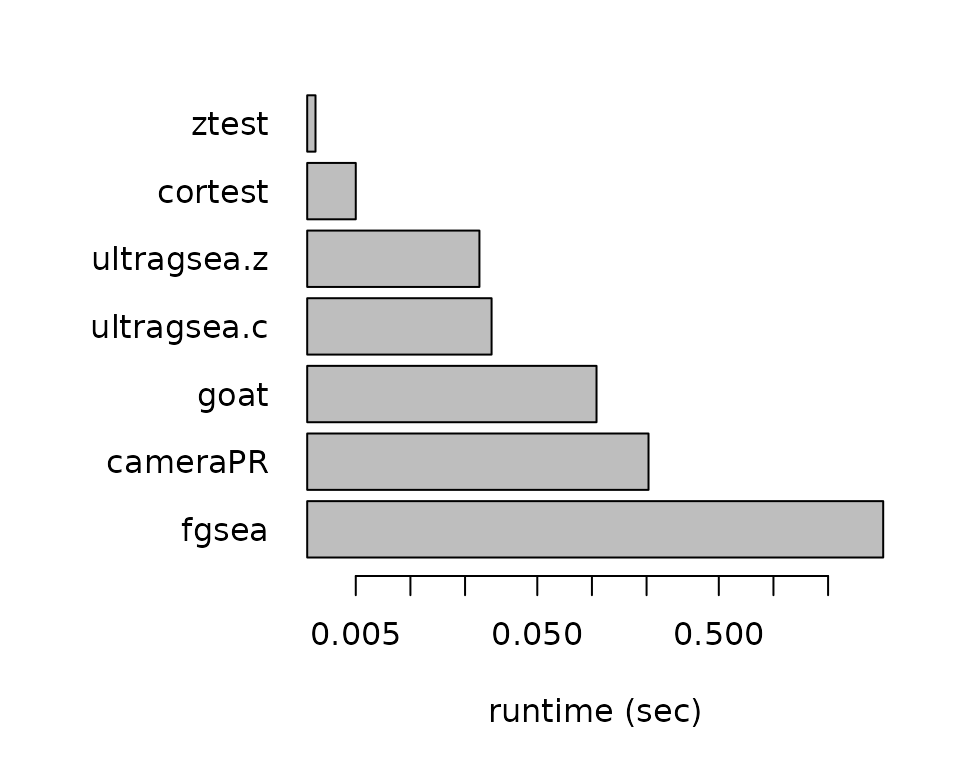
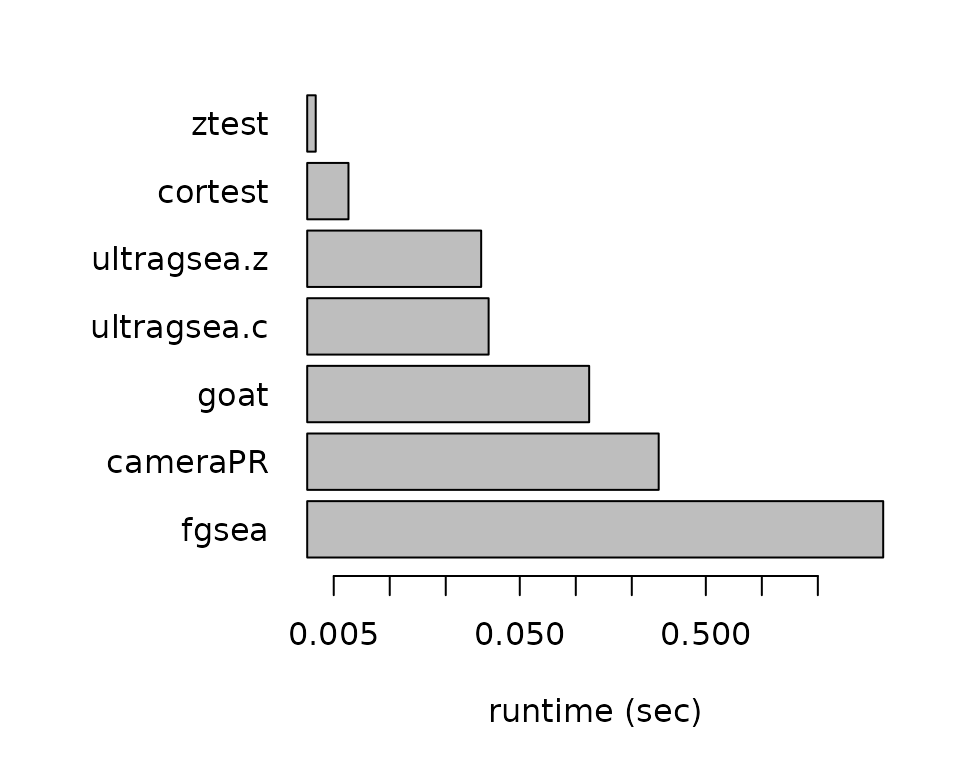
Deploying to gh-pages from @ bigomics/ultragsea@3f028133caed4172ec54459c7f4b8acf7c21ff14 🚀

diff --git a/articles/compare-methods.html b/articles/compare-methods.html
@@ -170,43 +170,43 @@ of each method.</p>
 <tbody>
 <tr class="odd">
 <td align="left">fgsea</td>
-<td align="right">4.024</td>
+<td align="right">4.491</td>
 <td align="right">1.3</td>
 <td align="right">42.6</td>
 </tr>
 <tr class="even">
 <td align="left">cameraPR</td>
-<td align="right">0.205</td>
+<td align="right">0.279</td>
 <td align="right">0.8</td>
 <td align="right">41.2</td>
 </tr>
 <tr class="odd">
 <td align="left">ultragsea.z</td>
-<td align="right">0.024</td>
+<td align="right">0.031</td>
 <td align="right">0.2</td>
 <td align="right">9.2</td>
 </tr>
 <tr class="even">
 <td align="left">ultragsea.c</td>
-<td align="right">0.028</td>
+<td align="right">0.034</td>
 <td align="right">0.9</td>
 <td align="right">12.7</td>
 </tr>
 <tr class="odd">
 <td align="left">cortest</td>
-<td align="right">0.005</td>
+<td align="right">0.006</td>
 <td align="right">0.0</td>
 <td align="right">4.2</td>
 </tr>
 <tr class="even">
 <td align="left">ztest</td>
-<td align="right">0.003</td>
+<td align="right">0.004</td>
 <td align="right">0.0</td>
 <td align="right">2.8</td>
 </tr>
 <tr class="odd">
 <td align="left">goat</td>
-<td align="right">0.106</td>
+<td align="right">0.118</td>
 <td align="right">4.5</td>
 <td align="right">23.8</td>
 </tr>
@@ -278,10 +278,10 @@ fgsea::fgsea()</p>
 <div class="sourceCode" id="cb8"><pre class="downlit sourceCode r">
 <code class="sourceCode R"><span><span class="fu"><a href="https://rdrr.io/r/base/system.time.html" class="external-link">system.time</a></span><span class="op">(</span><span class="va">res1</span> <span class="op">&lt;-</span> <span class="fu">fgsea</span><span class="fu">::</span><span class="fu"><a href="https://rdrr.io/pkg/fgsea/man/fgsea.html" class="external-link">fgsea</a></span><span class="op">(</span><span class="va">gmt</span>, <span class="va">fc</span><span class="op">)</span><span class="op">)</span></span>
 <span><span class="co">#&gt;    user  system elapsed </span></span>
-<span><span class="co">#&gt;   2.789   0.105   3.246</span></span>
+<span><span class="co">#&gt;   5.934   0.114   3.728</span></span>
 <span><span class="fu"><a href="https://rdrr.io/r/base/system.time.html" class="external-link">system.time</a></span><span class="op">(</span><span class="va">res2</span> <span class="op">&lt;-</span> <span class="fu">ultragsea</span><span class="fu">::</span><span class="fu"><a href="../reference/fgsea.html">fgsea</a></span><span class="op">(</span><span class="va">gmt</span>, <span class="va">fc</span><span class="op">)</span><span class="op">)</span></span>
 <span><span class="co">#&gt;    user  system elapsed </span></span>
-<span><span class="co">#&gt;   0.195   0.155   0.259</span></span></code></pre></div>
+<span><span class="co">#&gt;   0.169   0.133   0.239</span></span></code></pre></div>
 </div>
 </div>
   </main><aside class="col-md-3"><nav id="toc" aria-label="Table of contents"><h2>On this page</h2>

diff --git a/articles/compare-methods.md b/articles/compare-methods.md
@@ -104,13 +104,13 @@ kableExtra::kable(tt)
 
 | Function_Call | Elapsed_Time_sec | Total_RAM_Used_MiB | Peak_RAM_Used_MiB |
 |:--------------|-----------------:|-------------------:|------------------:|
-| fgsea         |            4.024 |                1.3 |              42.6 |
-| cameraPR      |            0.205 |                0.8 |              41.2 |
-| ultragsea.z   |            0.024 |                0.2 |               9.2 |
-| ultragsea.c   |            0.028 |                0.9 |              12.7 |
-| cortest       |            0.005 |                0.0 |               4.2 |
-| ztest         |            0.003 |                0.0 |               2.8 |
-| goat          |            0.106 |                4.5 |              23.8 |
+| fgsea         |            4.491 |                1.3 |              42.6 |
+| cameraPR      |            0.279 |                0.8 |              41.2 |
+| ultragsea.z   |            0.031 |                0.2 |               9.2 |
+| ultragsea.c   |            0.034 |                0.9 |              12.7 |
+| cortest       |            0.006 |                0.0 |               4.2 |
+| ztest         |            0.004 |                0.0 |               2.8 |
+| goat          |            0.118 |                4.5 |              23.8 |
 
 ``` r
 
@@ -193,8 +193,8 @@ fgsea::fgsea()
 
 system.time(res1 <- fgsea::fgsea(gmt, fc))
 #>    user  system elapsed 
-#>   2.789   0.105   3.246
+#>   5.934   0.114   3.728
 system.time(res2 <- ultragsea::fgsea(gmt, fc))
 #>    user  system elapsed 
-#>   0.195   0.155   0.259
+#>   0.169   0.133   0.239
 ```
